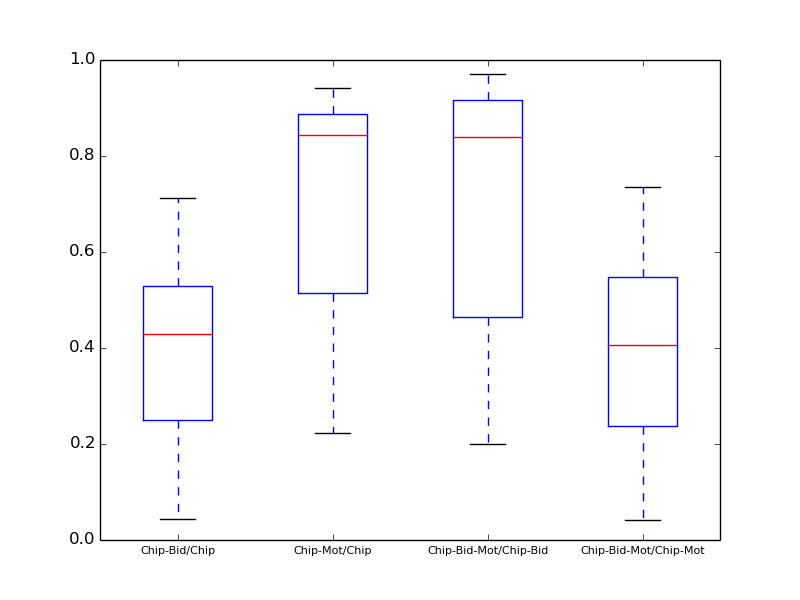
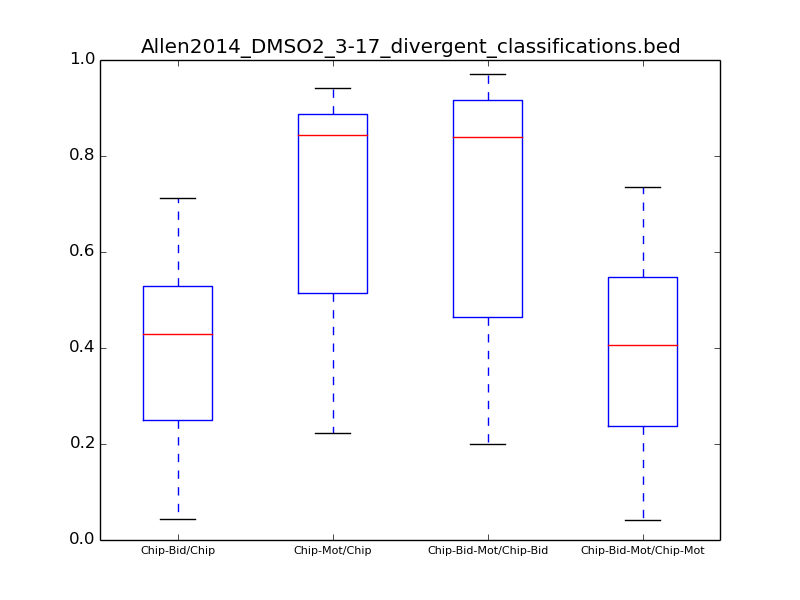
updates

Changed region(s): [[0.1562, 0.06, 0.8438, 0.09]]

diff --git a/src/VennGeneratorv2.py b/src/VennGeneratorv2.py
@@ -13,6 +13,7 @@ def run(bidirfile, chipfile, fimofile, outdir):
     os.system("bedtools intersect -a " + fimofile + " -b " + chipfile + " -c > " + outdir + "/fimochipintersect.bed")
     os.system("bedtools intersect -a " + fimofile + " -b " + bidirfile + " -c > " + outdir + "/fimobidirintersect.bed")
     os.system("bedtools intersect -a " + outdir + "/chipbidirintersect.bed" + " -b " + fimofile + " -c > " + outdir + "/chipbidirfimointersect.bed")
+    os.system("bedtools intersect -a " + outdir + "/bidirfimointersect.bed" + " -b " + chipfile + " -c > " + outdir + "/bidirfimochipintersect.bed")
     
     chiptot = 0
     fimotot = 0
@@ -24,6 +25,14 @@ def run(bidirfile, chipfile, fimofile, outdir):
     fimochip = 0
     fimobidir = 0
     chipbidirfimo = 0
+    bidirfimochip = 0
+    
+    with open(outdir + "/bidirfimochipintersect.bed") as F0:
+        for line in F0:
+            val1 = int(line.strip().split()[-1])
+            val2 = int(line.strip().split()[-2])
+            if val1 != 0 and val2 != 0:
+                bidirfimochip += 1
     
     with open(outdir + "/chipbidirfimointersect.bed") as F0:
         for line in F0:
@@ -48,7 +57,8 @@ def run(bidirfile, chipfile, fimofile, outdir):
     with open(outdir + "/bidirfimointersect.bed") as F3:
         for line in F3:
             val = int(line.strip().split()[-1])
-            bidirfimo += val
+            if val != 0:
+                bidirfimo += 1
             bidirtot += 1
     
     with open(outdir + "/bidirchipintersect.bed") as F3:
@@ -70,7 +80,7 @@ def run(bidirfile, chipfile, fimofile, outdir):
     
     print "chipfile:\tchiptotal\tbidirtotal\tfimototal\tchipbidir\tchipfimo\tbidirchip\tbidirfimo\tfimochip\tfimobidir\tchipbidirfimo"
     print chipfile,chiptot,bidirtot,fimotot,chipbidir,chipfimo,bidirchip,bidirfimo,fimochip,fimobidir,chipbidirfimo
-    return chiptot, chipbidir, chipfimo, chipbidirfimo
+    return chiptot, chipbidir, chipfimo, chipbidirfimo, bidirfimo, bidirfimochip
     
 def fix_database(directory):
     for TF in os.listdir(directory):
@@ -84,13 +94,13 @@ def fix_database(directory):
         outfile.close()
     
 if __name__ == "__main__":
-    bidirfile = '/scratch/Shares/dowell/ENCODE/Allen2014_DMSO2_3-17_divergent_classifications.bed'
+    bidirfile = '/scratch/Shares/dowell/ENCODE/DMSO2_3-2_divergent_classifications.bed'
     chipdir = '/scratch/Shares/dowell/ENCODE/HCT116v2'
     fimodir = '/scratch/Shares/dowell/ENCODE/HOCOMOCODatabaseFIMO/FIMO_OUT_v10'
     
     #fix_database(fimodir)
     
-    list1 = [[],[],[],[]]
+    list1 = [[],[],[],[],[]]
     for TF in os.listdir(chipdir):
         if os.path.exists(chipdir + '/' + TF + '/peak_files'):
             print TF
@@ -100,21 +110,24 @@ if __name__ == "__main__":
                     if TF == fimoTF.split('_')[0]:
                         print fimoTF
                         fimofile = fimodir + '/' + fimoTF + '/fimo.bed'
-                        chiptot, chipbidir, chipfimo, chipbidirfimo = run(bidirfile,chipfile,fimofile,chipdir + '/' + TF)
+                        chiptot, chipbidir, chipfimo, chipbidirfimo,bidirfimo,bidirfimochip = run(bidirfile,chipfile,fimofile,chipdir + '/' + TF)
                         chiptot = float(chiptot)
                         chipbidir = float(chipbidir)
                         chipfimo = float(chipfimo)
                         chipbidirfimo = float(chipbidirfimo)
+                        bidirfimo = float(bidirfimo)
+                        bidirfimochip = float(bidirfimochip)
                         list1[0].append(chipbidir/chiptot)
                         list1[1].append(chipfimo/chiptot)
                         list1[2].append(chipbidirfimo/chipbidir)
                         list1[3].append(chipbidirfimo/chipfimo)
+                        list1[4].append(bidirfimo/bidirfimochip)
     print list1
     F = plt.figure()
     ax = plt.axes()
     plt.boxplot(list1)
     title = bidirfile.split('/')[-1]
     plt.title(title)
-    ax.set_xticklabels(['Chip-Bid/Chip', 'Chip-Mot/Chip', 'Chip-Bid-Mot/Chip-Bid','Chip-Bid-Mot/Chip-Mot'],fontsize=8)
-    plt.savefig(chipdir + '/overlap_boxplot1.png')
+    ax.set_xticklabels(['Chip-Bid/Chip', 'Chip-Mot/Chip', 'Chip-Bid-Mot/Chip-Bid','Chip-Bid-Mot/Chip-Mot','Bid-Chip/Bid-Mot-Chip'],fontsize=8)
+    plt.savefig(chipdir + '/overlap_boxplot2.png')
     
